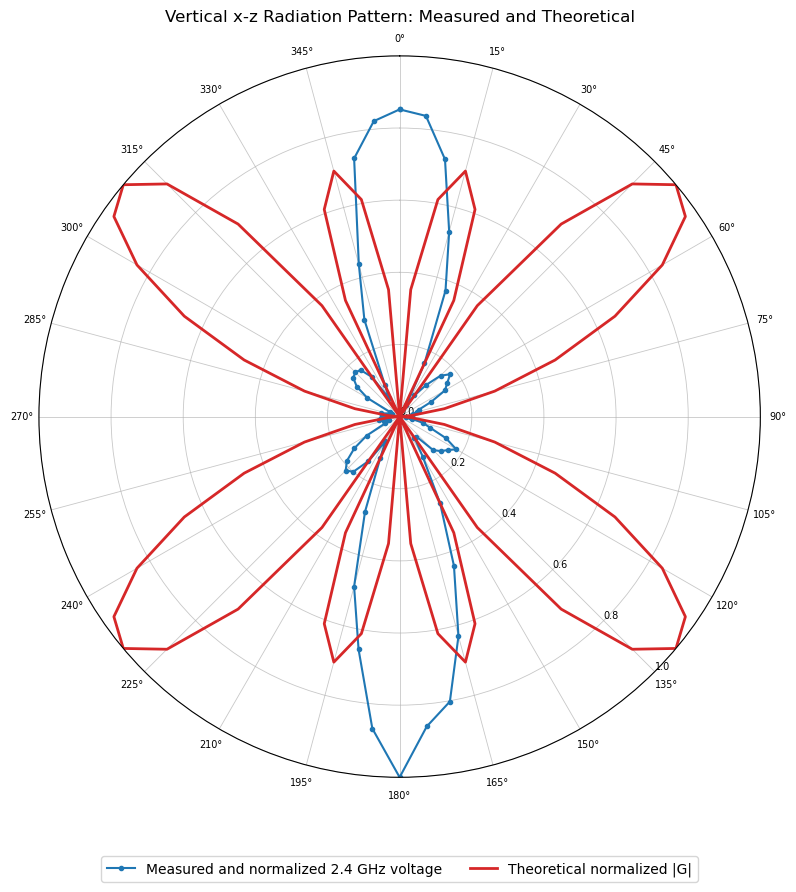
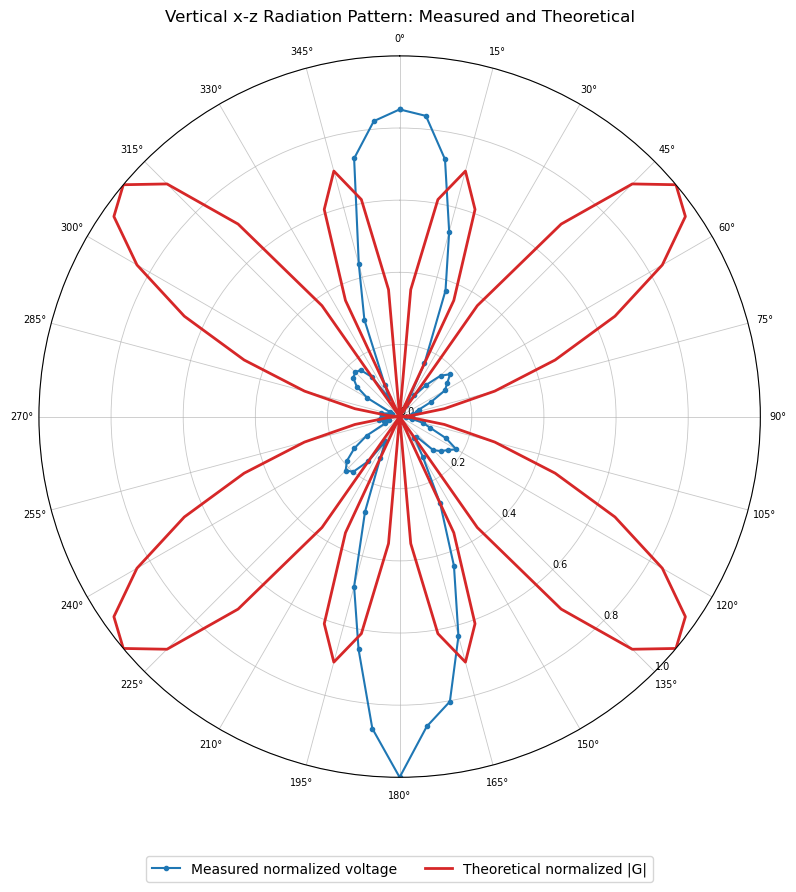
Exercise 4 progress V

Changed region(s): [[0.1206, 0.9686, 0.8744, 0.9989]]

diff --git a/Chapters/Kapitel_3.tex b/Chapters/Kapitel_3.tex
@@ -158,12 +158,20 @@ Expressed in decibels relative to an isotropic radiator (dBi):
 	G_{\mathrm{group\_theory}}[\mathrm{dBi}] = 10\log_{10}(6.56) \nonumber \\
 	\boxed{G_{\mathrm{group\_theory}} \approx 8.17\mathrm{\ dBi}} \label{eq:gain_db}
 \end{gather}
-This theoretical calculation indicates the group gain should be about $6\mathrm{\ dB}$ higher than the gain of a single half-wave dipole.
+This theoretical calculation indicates the group gain should be about $6\mathrm{\ dB}$ higher than the gain of a single half-wave dipole.\\
 
+If the horn antenna gain was known, the gain of the antenna group could be estimated by comparing the measured received powers of both antennas under the same measurement conditions, at 2.4GHz:
+\begin{gather}
+	G_{\mathrm{array}}[\mathrm{dBi}] = G_{\mathrm{horn}}[\mathrm{dBi}] + \left(P_{\mathrm{array}} - P_{\mathrm{horn}}\right) \label{eq:array_gain}
+\end{gather}
+
+However, since the measurements were not made at 2.4GHz for the Horn antenna, the equation was not computed further.
+
+\begin{comment}
 \paragraph{Measured Gain via Comparison Method:}
 Based on the measurement data collected, one can calculate the true measured gain, the comparison method is to use a reference horn antenna with a known gain $G_{\mathrm{horn}}$.
 
-The measured power difference $\Delta P$ between the test array and the reference horn is calculated directly from the spectrum analyzer readings:
+The measured power difference $\Delta P$ between the antenna array and the reference horn is:
 \begin{gather}
 	\Delta P [\mathrm{dB}] = P_{\mathrm{group}} [\mathrm{dBm}] - P_{\mathrm{horn}} [\mathrm{dBm}] \label{eq:delta_p}
 \end{gather}
@@ -173,35 +181,94 @@ The actual measured gain of the group is then found by adding this difference to
 	G_{\mathrm{group\_measured}} [\mathrm{dBi}] = G_{\mathrm{horn}} [\mathrm{dBi}] + \Delta P [\mathrm{dB}] \label{eq:measured_gain}
 \end{gather}
 By comparing $G_{\mathrm{group\_measured}}$ to the theoretical $8.17\mathrm{\ dBi}$, the efficiency and inherent losses of the multi-antenna setup can be quantified.
+\end{comment}
 
-\subsubsection{\textbf{Calculation of the reflection coefficient phase, and load impedances:}}
-In order to obtain the angle of the reflection coefficient ($\delta_0$), one must use the following relation\cite{script} as laid out in the lab script: 
+\subsubsection{\textbf{Calculation of the directivity of the group:}}
+Directivity indicates the power increase in the main beam direction compared to the average
+power radiated in all directions \cite{script}.\\
+The calculation of directivity for the horizontally polarised antenna array is:
 \begin{gather}
-	\delta_n = (2n+1)\pi - 2\beta \mathrm{z_{min}} 		\label{eq:xphase_refl} \\
-	\mathrm{where, \quad}\beta = \frac{2\pi}{\lambda} 	\nonumber
+	D_{\mathrm{horz}} = \frac{\Phi_{\mathrm{max}}}{\Phi_i}	\nonumber \\
+	\mathrm{where,\quad} 	\nonumber \\
+	\Phi_{\mathrm{i-norm}} = 0.2281 \mathrm{\quad and \quad} \Phi_{\mathrm{max-norm}} = 1 	\nonumber \\
+	\boxed{D_{\mathrm{horz}} = \frac{1}{0.2281} = 4.284}
 \end{gather}
 
-\newpage
-Simplifying equation~\ref{eq:xphase_refl}:
+The calculation of directivity for the vertically polarised antenna array is:
 \begin{gather}
-	\delta_0 = (2\cdot n+1)\pi - 2\beta \mathrm{z_{min}} 	\nonumber \\
-	\boxed{\delta_0 = \pi - 4 \pi \cdot \frac{\mathrm{z_{min}}}{\lambda}} \quad
-	\boxed{\delta_1 = 3\pi - 4 \pi \cdot \frac{\mathrm{z_{min}}}{\lambda}} \quad
-	\boxed{\delta_2 = 5\pi - 4 \pi \cdot \frac{\mathrm{z_{min}}}{\lambda}} \label{eq:xphase_refl_simplified}
+	D_{\mathrm{vert}} = \frac{\Phi_{\mathrm{max}}}{\Phi_i}	\nonumber \\
+	\mathrm{where,\quad} 	\nonumber \\
+	\Phi_{\mathrm{i-norm}} = 0.2152 \mathrm{\quad and \quad} \Phi_{\mathrm{max-norm}} = 1 	\nonumber \\
+	\boxed{D_{\mathrm{vert}} = \frac{1}{0.2152} = 4.647}
 \end{gather}
 
-For the load impedances ($Z_L$), one can use the following formula\cite{script}:
+\subsubsection{\textbf{Calculation of the distance dependence of the received power:}}
+
+For plotting the distance dependence of the received power one must understand the distance dependence of the received power. \\
+According to the theory \cite{script}, the received power in the far field follows the inverse-square law. Meaning that the electromagnetic field strength decreases with $1/r$, while the radiated power decreases with $1/r^2$.
+
+\paragraph{Calculation formula:}
+The received power can be calculated as:
 \begin{gather}
-	\mathrm{\underline{\rho_0}} = \frac{Z_L - Z_0}{Z_L + Z_0} 	\nonumber \\[4pt]
-	\mathrm{\underline{\rho_0}} (Z_L + Z_0) = Z_L - Z_0 	\nonumber \\[4pt]
-	Z_L = Z_0 \frac{1+\mathrm{\underline{\rho_0}}}{1-\mathrm{\underline{\rho_0}}} 	\label{eq:xload_imp}\\
-	\mathrm{where, \quad}\mathrm{\underline{\rho_0}} = |\mathrm{\underline{\rho_0}}|\cdot e^{j\delta_0} 	\nonumber
+	P_r = P_t \cdot G_t \cdot G_r \cdot \left(\frac{\lambda}{4\pi r}\right)^2 \label{eq:friis}
+\end{gather}
+
+where:
+\begin{itemize}
+	\item $P_t$ is the transmitted power, set at +10dBm
+	\item $G_t$ is the gain of the transmitting antenna, theoretical assumption of 6.56 = 8.17dBi
+	\item $G_r$ is the gain of the receiving antenna, theoretical assumption of 1.64 = 2.15dBi
+	\item $\lambda$ is the wavelength, set at 0.125m
+	\item $r$ is the distance between the antennas, varying from 0.25m to 5m
+\end{itemize}
+
+\begin{comment}
+	The term
+	\begin{gather}
+		\left(\frac{4\pi r}{\lambda}\right)^2
+	\end{gather}
+	represents the free-space loss.
+\end{comment}
+\begin{gather}
+	P_r = 107.584 \cdot \left(\frac{0.125}{4\pi r}\right)^2 \nonumber
+\end{gather}
+
+For each distance, the received power is calculated using the equation~\ref{eq:friis}. \\
+The resultant graph has been plotted in \ref{fig:xscreen9}.
+
+\subsubsection{\textbf{Calculation of the free space loss during all measurements:}}
+
+The term
+\begin{gather}
+	L_{fs} = \mathrm{20}\log_{10}\left(\frac{4\pi r}{\lambda}\right)	\label{eq:free_space}
+\end{gather}
+represents the free-space loss. \\Hence, the calculation of r is essential before calculation of the free space loss itself.
+
+Rearranging Friis equation gives:
+\begin{gather}
+	P_r = P_t \cdot G_t \cdot G_r \cdot \left(\frac{\lambda}{4\pi r}\right)^2 \nonumber \\
+	r = \frac{\lambda}{4\pi}\sqrt{\frac{P_t \cdot G_t \cdot G_r}{P_r}} \label{eq:friis_r}
+\end{gather}
+
+One can consider the horn antenna as the reference measurement for the Gain ($G_r$) at 1GHz. The maximum received power ($P_r$) is -21.803 dBm, in mW it becomes $6.602 \times 10^{-3}$. The gain of the measuring antenna is assumed to be 1. $G_t$ in linear units is $6.166$.
+\begin{gather}
+	r = \frac{0.3}{4\pi}\sqrt{\frac{10 \cdot 6.166 \cdot 1}{6.602\times10^{-3}}} \nonumber \\
+	\boxed{r = 2.307\mathrm{m}} \label{eq:antenna_dist}
+\end{gather}
+
+Using the value of \ref{eq:antenna_dist} in \ref{eq:free_space}, one can obtain:
+\begin{gather}
+	L_{\mathrm{fs-1GHz}} = \mathrm{20}\log_{10}\left(\frac{4\pi \cdot2.307}{0.30}\right) =  39.70\,\mathrm{dB} \nonumber \\
+	L_{\mathrm{fs-2GHz}} = \mathrm{20}\log_{10}\left(\frac{4\pi \cdot2.307}{0.15}\right) = 45.72\,\mathrm{dB} \nonumber \\
+	L_{\mathrm{fs-3GHz}} = \mathrm{20}\log_{10}\left(\frac{4\pi \cdot2.307}{0.10}\right) = 49.25\,\mathrm{dB} \nonumber \\
+	L_{\mathrm{fs-2.4GHz}} = \mathrm{20}\log_{10}\left(\frac{4\pi \cdot2.307}{0.125}\right) = 47.31\,\mathrm{dB} \nonumber
 \end{gather}
 
 % Using the tables~\ref{tab:power_plots_1} and~\ref{tab:power_plots_2}, the distance from the load to the position corresponding to the $0^{th}$ minima is obtained and used in the equation~\ref{eq:xphase_refl_simplified} to obtain the angle of the reflection coefficient, and equation~\ref{eq:xload_imp} is used for the load impedance calculation.
 
 % The calculations were made with a Python script-\ref{lst:vswr-code} (placed in the appendix) this time, and the computed values are present in the table~\ref{tab:refl_phase_n_load}.
 
+\begin{comment}
 \subsection{Table with measurement results}
 Tables~\ref{tab:power_plots_1} and~\ref{tab:power_plots_2} (placed in the appendix section of this document) present the measured power values at different positions along the coaxial RF line for different terminations.
 \vspace{3mm}
@@ -219,6 +286,7 @@ Carrying out this computation using Python \ref{lst:load-code}, the values for c
 \input{src/assets/tabel/load_impedances}
 
 The representation of these Load impedance values has been done on a smith chart in  figure \ref{fig:xsmith_chart1}.
+\end{comment}
 
 \newpage
 \subsection{Measurement curve and diagrams}
@@ -310,8 +378,23 @@ Figure~\ref{fig:xscreen8} shows the generated polar plot comparing the measured 
 	\caption{\centering Polar plot comparing the measured and calculated group characteristic in vertical configuration.}
 	\label{fig:xscreen8}
 \end{figure}
+\\(\textbf{NOTE}: This is not a mistake in representation. Measured power for a vertically polarised antenna matches the behaviour of an ideal horizontally polarised antenna. Reference: \cite{script}, page 74, figure 2-17.)
 
 \newpage
+\subsubsection{Distance dependence of the received power} 
+Figure~\ref{fig:xscreen9} shows the generated line plot of calculated power over distance in a linear scale.
+\begin{figure}[ht!]
+	\centering
+	\includegraphics[page=4,width=1\linewidth]{src/diagrams/RF_4/Q5_linear}
+	\caption{\centering Line plot showing the power vs. distance behaviour of the received power.}
+	\label{fig:xscreen9}
+\end{figure}
+
+\paragraph{Note:}
+This is only a simple Friis-style estimate, so the curve looks idealized. \\To plot the measured received power over distance instead of the theoretical calculations, one must possess the correct gains against a known reference at a matching frequency.
+
+\newpage
+\begin{comment}
 \subsection{Additional questions}
 \textbf{Q. Is it possible to match all loads with an additional passive impedance matching
 	network, consisting of transmission line and Capacitor?}\\
@@ -428,39 +511,33 @@ The wavelength is
 
 Thus, the characteristics of a matched load at 310 MHz using a 50$\Omega$ transmission line
 is with a length of 33.17 cm and a shunt capacitor of approximately 7.85 pF.
+\end{comment}
 
 \FloatBarrier
 \subsection{Discussion} 
 \begin{itemize}
-	\item \textbf{Wave velocity and wavelength}:\\
-	The calculation of wave velocity was done after determining the wavelength. \\Both of these figures seem plausible and valid for the measurements made.
+	\item \textbf{Horn antenna measurements}:\\
+	The measured horn antenna patterns are consistent with the expected patterns. What can be seen from the polar plots is that the received power decreases as the frequency increases, and the 1GHz curve shows the highest received power, followed by 2GHz and 3GHz. 
+	\\The measured patterns also show the expected angle-dependent behaviour of the horn antenna.\\
+	The vertical pattern has a more concentrated beam in far-field when compared to the higher spread of the horizontal polarisation at all 3 frequencies.
 	
-	\item \textbf{VSWR \& Reflection coefficient magnitude}:\\
-	The calculated VSWR and reflection coefficient magnitude values can be analyzed as:
+	\item 
 	\begin{itemize}
-		\item \textbf{For open and short loads}: Extremely high VSWR, as expected, yielding a near full reflection in either cases.
-		\item \textbf{For 50$\Omega$ impedance}: Matched impedance resulting in ideal VSWR, ideally should be 1.0 but stands at 1.19, likely due to parasitic effects of the setup. Very small reflection coefficient magnitude.
-		\item \textbf{For 25$\Omega$ impedance}: Small VSWR but significant enough to cause reflections. Ideally should be 2 but reaches 2.54. Reflection coefficient roughly in the same neighbourhood but notable shift from 0.333 ideal scenario.
-		\item \textbf{For 100$\Omega$ impedance}: Same expectations as 25$\Omega$, but delivers a much better result. VSWR reaches 2.11, close enough to expectations. Reflection coefficient of 0.357, significantly better than 25$\Omega$ result.	
-		\item \textbf{For a purely capacitive load}: Expectations are to see a high VSWR, but lower than open or short loads, still yielding a near 100\% reflection, the achieved results seem fair enough.
+		\item \textbf{4-antenna group measurements, equal phase}:\\
+		The 4-antenna group shows the higher and lower spreads based on the antenna polarisation. The horizontal polarisation of the antenna shows a much higher spread, the behaviour cannot be decisively ascertained just by analysing the measured pattern. \\On the contrary, vertical polarisation of the antenna shows 2 large lobes at 0$^\circ$ and 180$^\circ$, and 4 small ones.
+		
+		\item \textbf{4-antenna group measurements, different phase}:\\
+		The 4-antenna group when sourced with different phases show overall similar trends, but there are notable differences. The vertical polarisation no longer creates 2 large lobes at 0$^\circ$ and 180$^\circ$, but instead makes them at 35$^\circ$ and 145$^\circ$, with one smaller lobe at 305$^\circ$. \\Here, horizontal polarisation of the antenna shows a very similar spread as compared to the horizontally polarised group antennae which were sourced with equal phase, but the irregularities are higher.\\
+		
+		\textit{This irregularity when moving from equal phase to different phase is explained, since phase differences between the elements change the array factor and therefore the direction of constructive and destructive interference.}
 	\end{itemize}
 	
-	\item \textbf{Reflection coefficient phase and Load impedances}:\\
-	The calculated reflection coefficient phases and the resulting load impedances can be analyzed as follows:
+	\item \textbf{Measured vs. calculated radiation patterns}:\\
+	\textcolor{blue}{The largest and quite an inexplicable deviation occurred when comparing the measured total radiation pattern against the theoretical figures of the group antennae sourced with equal phase.
+	The calculated patterns were plotted with the red marker, and confirmed against the source material \cite{script}.\\ 
+	However, the measured values present in the excel sheet convey:
 	\begin{itemize}
-		\item \textbf{For open and short loads}: The obtained distances for the voltage minima were relatively consistent, but the final calculated load impedances deviated noticeably from the ideal. Theoretically, an open or short should yield an infinite or zero impedance with purely reactive edge-cases, but this is not seen perfectly.
-		
-		\item \textbf{For 50$\Omega$ impedance}: This is the only load where the phase calculations cannot be heavily relied upon. Because the load is nearly matched, the standing wave minima are extremely shallow and difficult to accurately locate. Consequently, the phase calculations yielded varying results. The final plotted point on the Smith chart is only close to the center due to the definitively small reflection coefficient magnitude, rather than an accurate phase measurement.
-		
-		\item \textbf{For 25$\Omega$ impedance}: Ideally, this load should plot on the horizontal line (just like $100\Omega$ and $50\Omega$) on the real axis inside the Smith chart ($25 + j0\,\Omega$). However, any slight error in locating the exact minimum position physically translates to an noticeable phase shift in the calculations. This introduces a parasitic reactive component, pushing the plotted point off the real axis.
-		
-		\item \textbf{For 100$\Omega$ impedance}: This carries the same expectations as the 25$\Omega$ load but performed noticeably better. It yielded a primarily resistive value near 100$\Omega$ with only a minor resistive and reactive offset, placing it fairly accurately in the expected right-hand portion of the real axis.
-		
-		\item \textbf{For a purely capacitive load}: Ideally, this load should yield a purely negative reactance and sit firmly in the lower half of the Smith chart. However, our calculated impedance deviated significantly from this fundamental expectation. (explanation later)
+		\item Measurements made with the horizontally polarised antenna create a pattern that very remotely matches the expected vertically polarised antenna characteristic.
+		\item Measurements made with the vertically polarised antenna create a pattern that very strongly matches the expected horizontally polarised antenna characteristic.
 	\end{itemize}
-	
-	\textbf{Verdict}: To try and explain the offsets observed for the extreme cases (open and short), one could attribute this to the length of the load adapters, as well as measurement setup factors like cable attenuation, and parasitic inductance at the terminations. \\Even tiny errors in the reflection coefficient, like from (ideal case of) 1 to (measured instance of) 0.997 for an open circuit, causes a huge shift in the location of the same in the Smith chart because the reflection coefficient changes from 0 + j349.96 -> 3.75 + j349.92.
-	
-	However, the most notable anomaly is the capacitive load being plotting in the incorrect quadrant of the Smith chart. Despite rechecking all calculation and reviewing the measurements multiple times, and also consulting external references, the exact cause of this unexpected behavior could not be definitively identified.
-\end{itemize}
-
+	The Excel document used to obtain the measurements was checked, and the polarisation has not been inadvertently swapped during processing.}

diff --git a/src/assets/tabel/sim_1.tex b/src/assets/tabel/sim_1.tex
@@ -21,7 +21,7 @@
 		70.0 & -27.9 & -26.5 & -18.8 \\
 		72.5 & -34.0 & -27.0 & -19.1 \\
 		74.7 & -73.0 & -26.6 & -19.6 \\
-		75.0 & -51.0 & -26.6 & -19.9 \\
+
 		80.0 & -26.8 & -24.9 & -21.8 \\
 		85.0 & -21.5 & -23.0 & -25.9 \\
 		90.0 & -19.0 & -21.9 & -35.9 \\
@@ -32,7 +32,6 @@
 		110.0 & -20.2 & -23.8 & -19.5 \\
 		115.0 & -23.7 & -25.7 & -18.9 \\
 		120.0 & -31.0 & -27.0 & -19.1 \\
-		120.3 & -32.7 & -27.3 & -19.3 \\
 		123.0 & -71.0 & -26.7 & -19.6 \\
 		125.0 & -35.5 & -26.0 & -20.3 \\
 		130.0 & -24.5 & -24.1 & -22.7 \\

diff --git a/Chapters/Anhang.tex b/Chapters/Anhang.tex
@@ -5,8 +5,8 @@
 The following table~\ref{tab:power_plots_1} shows the measured signal power along the coaxial line for loads: open, short and 100$\Omega$.
 \input{src/assets/tabel/sim_1}
 
-\FloatBarrier
 \newpage
+\FloatBarrier
 The following table~\ref{tab:power_plots_2} shows the measured signal power along the coaxial RF line for the loads: capacitive load, 25$\Omega$ and 50$\Omega$.
 \input{src/assets/tabel/sim_2}
 

diff --git a/main.tex b/main.tex
@@ -5,6 +5,7 @@
 \usepackage{amssymb}
 \usepackage{adjustbox}
 \usepackage{color}
+\usepackage{xcolor}
 \usepackage{graphicx}
 \usepackage[T1]{fontenc}
 \usepackage{ulem}
